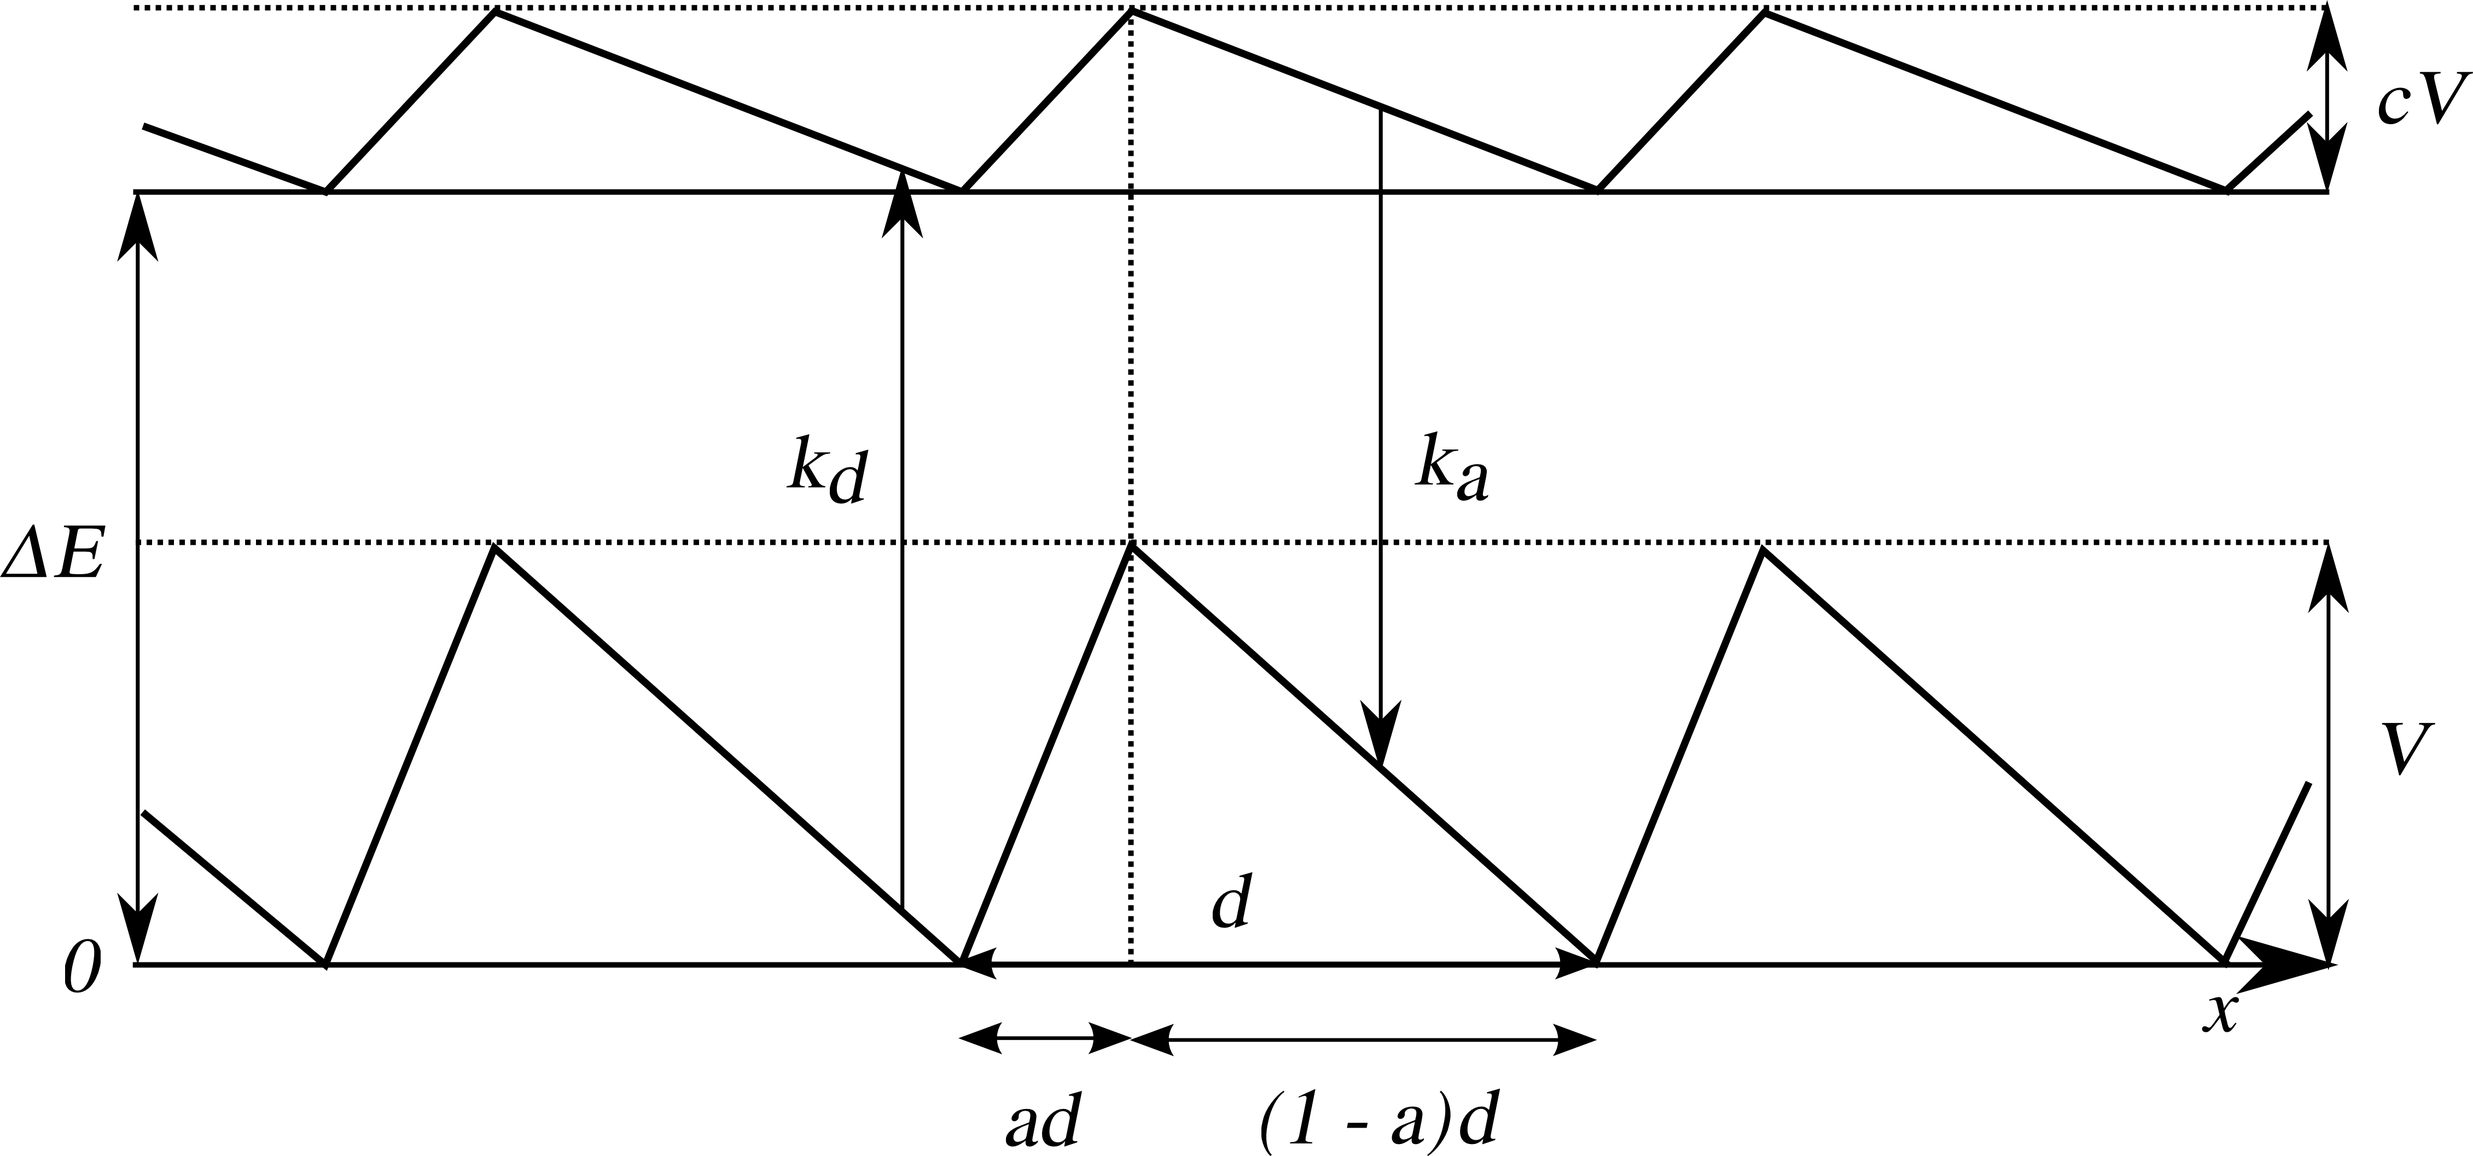
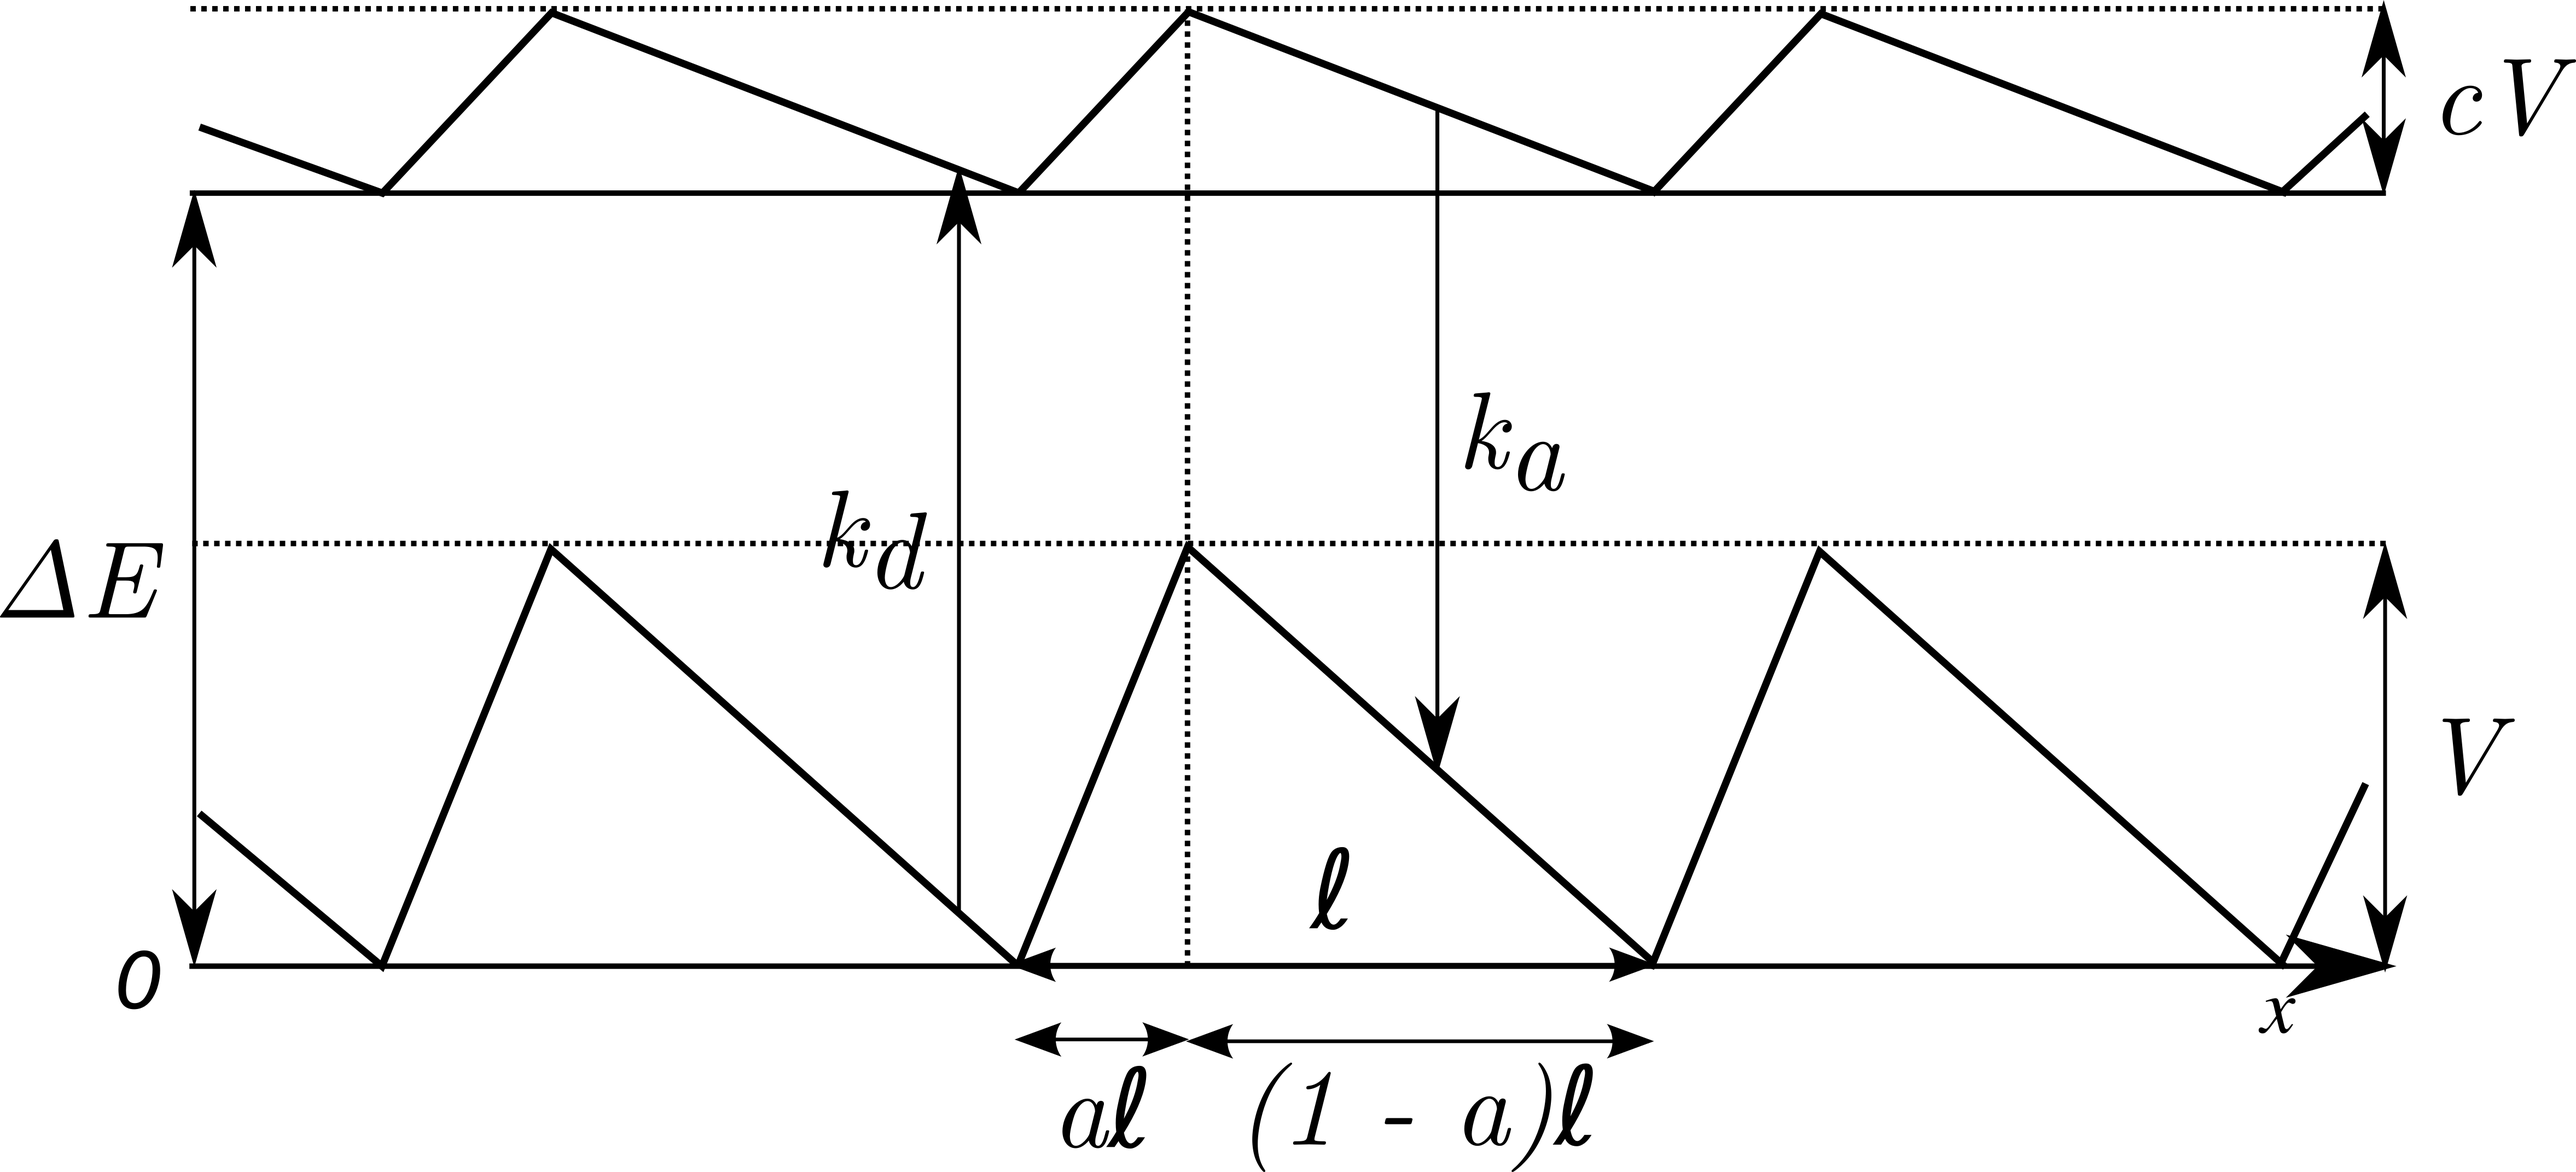
New notation in SVG.
On branch master
Your branch is ahead of 'origin/master' by 1 commit.

Changes to be committed:
	modified:   Ratchet.tex
	modified:   energy.png
    modified:   energy.svg

diff --git a/Ratchet.tex b/Ratchet.tex
@@ -110,14 +110,14 @@ In those studies the rates did depend on the load on the motor. We show computat
 
 \section{The Ratchet model}
 \label{sec:ratchet}
-In order to investage the movement of myosin along the actin filament we consider the following one dimensional model:
+In order to investigate the movement of myosin along the actin filament we consider the following one dimensional model:
 First, we assume that the rigidity of the actin polymer and myosin backbone is high enough that their elongations can be neglected.
 Second, we assume that all myosin heads are attached directly to the myosin backbone at fixed equidistant positions, see figure~\ref{Fig: ratchet setup}. 
 These simplifications allow us to model both, the motor and the filament, as point particles undergoing overdamped diffusion \cite{}. %TODO
 Moreover, each myosin head has an internal state, which represent its chemical state, 
 i.e. whether there is an ATP bounded or not to the myosin head. 
 
-The dynamics of the full system is then described by coupled overdamped Langevin equations 
+The dynamics of positions is described by coupled overdamped Langevin equations 
 \begin{align}
 &\begin{multlined}[b]
 \rmd x_\text{M} = 
@@ -160,10 +160,10 @@ with total height $V$,
 period $\ell$ 
 and skewness parameter $a \in [0,1]$. 
 
-%%%%%%%%%%%%%%%%%%%
+The dynamics of internal state of heads is govern by continuous time Markov process. 
 Unlike in traditional models \cite{}, %TODO
 in our model the internal state represents whether ATP is bound or unbound to the myosin head. 
-This change, of motor heads evolve as a continuous time Markov jump process with rates $k_\text{bind}$, $k_\text{unbind}$ 
+This is reflected in the assumption the rates $k_\text{bind}$, $k_\text{unbind}$ independent of the load 
 \begin{equation}
 \zeta_t = 1 \overset{k_\text{bind}}{\underset{k_\text{unbind}}{\rightleftarrows}} \zeta_t = c
 \end{equation}
